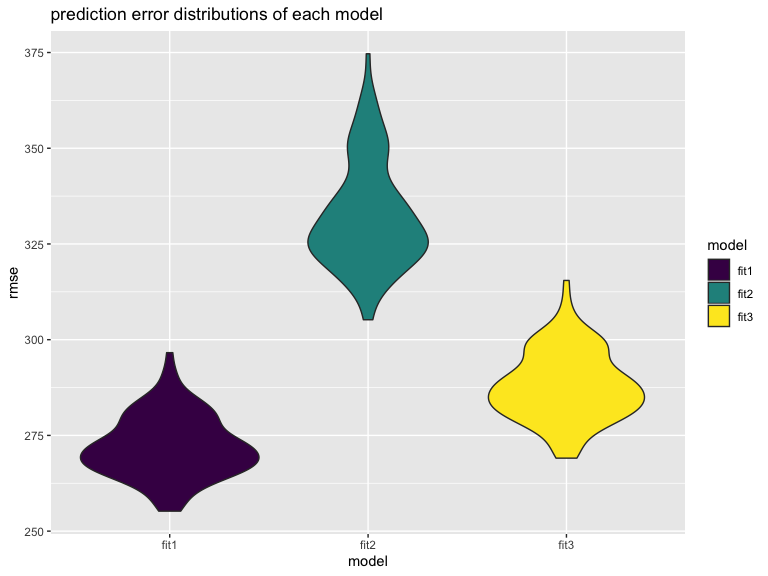
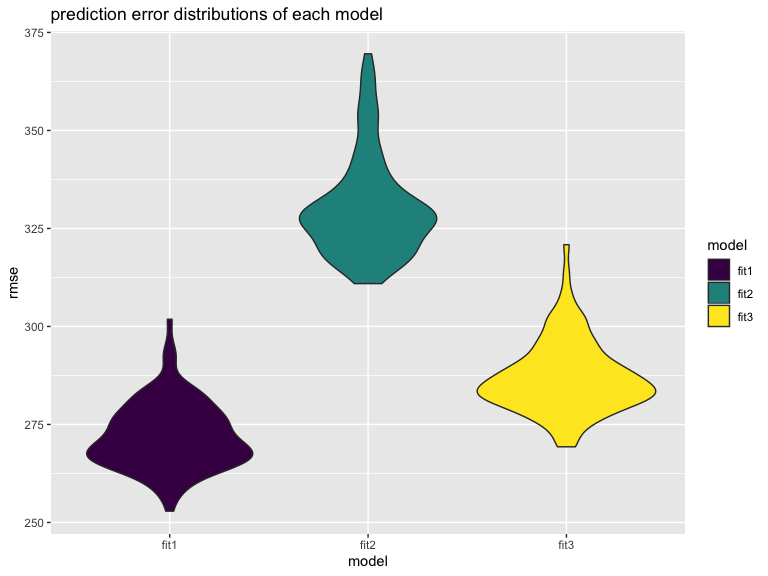
draft done!

diff --git a/p8105_hw6_xw2676.md b/p8105_hw6_xw2676.md
@@ -263,7 +263,7 @@ fit1
 
 <td style="text-align:center;">
 
-272.0909
+272.0988
 
 </td>
 
@@ -279,7 +279,7 @@ fit2
 
 <td style="text-align:center;">
 
-332.3538
+330.2529
 
 </td>
 
@@ -295,7 +295,7 @@ fit3
 
 <td style="text-align:center;">
 
-287.9382
+287.0685
 
 </td>
 
@@ -311,6 +311,7 @@ model 1 is superior than the other two model.
 ## Problem 2
 
 ``` r
+set.seed(10)
 weather_df = 
   rnoaa::meteo_pull_monitors(
     c("USW00094728"),
@@ -339,6 +340,7 @@ weather_df =
     ## file min/max dates: 1869-01-01 / 2019-10-31
 
 ``` r
+set.seed(10)
 boot_weather = weather_df %>% 
   modelr::bootstrap(n = 5000) %>% 
   mutate(
@@ -370,6 +372,10 @@ ggplot(aes(x = r_squared), data = boot_weather) +
 ```
 
 <img src="p8105_hw6_xw2676_files/figure-gfm/unnamed-chunk-4-2.png" width="90%" />
+
+According to the plot, we can see that the distribution of r\_square and
+log\_b0\_b1 are slightly left-skewed normal
+distribution.
 
 ``` r
 r_square_interval = quantile(pull(boot_weather, r_squared), c(0.025,0.975))
@@ -422,13 +428,13 @@ r\_square\_interval
 
 <td style="text-align:center;">
 
-0.8932048
+0.893841
 
 </td>
 
 <td style="text-align:center;">
 
-0.927199
+0.9275271
 
 </td>
 
@@ -444,13 +450,13 @@ log\_b0\_b1\_interval
 
 <td style="text-align:center;">
 
-1.9668339
+1.964572
 
 </td>
 
 <td style="text-align:center;">
 
-2.059531
+2.0591261
 
 </td>
 
